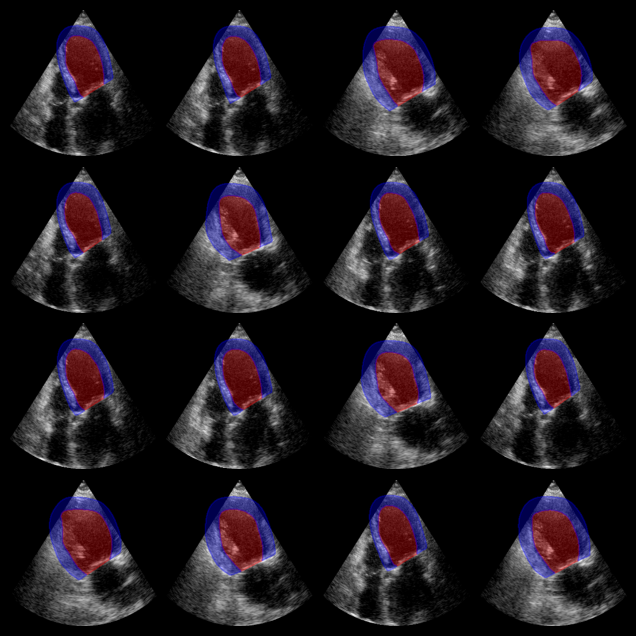
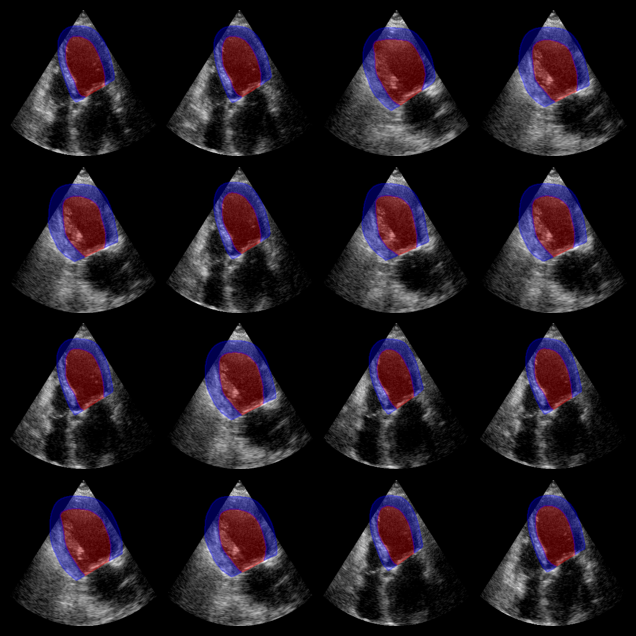
JOSS review @user (#283)

Pull request: JOSS review @user
This PR addresses the JOSS review comments and feedback by @user. See a summary of the review here: https://github.com/openjournals/joss-reviews/issues/9881#issuecomment-3800450309

And the related issues:
- #278 
- #279

Please find an updated version of the docs right here: https://zea--283.org.readthedocs.build/en/283/

<!-- This is an auto-generated comment: release notes by coderabbit.ai -->
## Summary by CodeRabbit

* **Documentation**
  * Notebooks: added Keras import, convert pipeline outputs to NumPy, clarified example imports, reordered/updated model examples and backend support notes.
  * API docs: clarified EchoNet backend requirements and error messaging; added internal Docker anchor to installation docs.
* **Improvements**
  * Added public-facing type annotations for clearer IDE hints.
* **Tests**
  * Added a regression test covering cache-disabled data loading.
<!-- end of auto-generated comment: release notes by coderabbit.ai -->

diff --git a/tests/data/test_dataloader.py b/tests/data/test_dataloader.py
@@ -1,6 +1,7 @@
 """Test H5 dataloader functions"""
 
 import hashlib
+import importlib
 import pickle
 
 import h5py
@@ -596,6 +597,49 @@ def test_dataset_property(dummy_hdf5):
         validate=False,
     )
     assert loader.dataset is not None
+
+
+def test_h5_data_source_with_disabled_cache(multi_shape_dataset, monkeypatch):
+    """H5DataSource must survive multiprocessing.Pool when caching is disabled.
+
+    Regression test for a bug where tempfile.TemporaryDirectory was used as the
+    ZEA_CACHE_DIR. On Linux (fork-based multiprocessing), forked Pool workers
+    inherit the TemporaryDirectory object and its weakref.finalize cleanup
+    callback. If the finalizer fires in any worker, it deletes the shared temp
+    dir from under the parent process, causing a FileNotFoundError.
+
+    The fix replaces TemporaryDirectory with tempfile.mkdtemp so there is no
+    weakref.finalize for forked children to inherit.
+    """
+
+    import zea.data.dataloader as _dataloader_mod
+    import zea.data.datasets as _datasets_mod
+    import zea.internal.cache as _cache_mod
+
+    # Set the env var *before* reloading so the import-time _disable_cache()
+    # call in zea.internal.cache exercises the mkdtemp path (not TemporaryDirectory).
+    # monkeypatch auto-restores the env var after the test.
+    monkeypatch.setenv("ZEA_DISABLE_CACHE", "1")
+    importlib.reload(_cache_mod)
+    importlib.reload(_datasets_mod)
+    importlib.reload(_dataloader_mod)
+
+    try:
+        source = _dataloader_mod.H5DataSource(
+            file_paths=multi_shape_dataset,
+            key="data",
+            n_frames=1,
+            validate=False,
+        )
+        assert len(source) > 0
+    finally:
+        # Restore modules to cache-enabled state for subsequent tests.
+        # Remove the env var first so the reload picks up the enabled path;
+        # monkeypatch's own teardown will then be a harmless no-op.
+        monkeypatch.delenv("ZEA_DISABLE_CACHE", raising=False)
+        importlib.reload(_cache_mod)
+        importlib.reload(_datasets_mod)
+        importlib.reload(_dataloader_mod)
 
 
 def test_dataloader_repr(dummy_hdf5):

diff --git a/zea/models/echonet.py b/zea/models/echonet.py
@@ -20,6 +20,14 @@ To try this model, simply load one of the available presets:
     A tutorial notebook where this model is used:
     :doc:`../notebooks/models/left_ventricle_segmentation_example`.
 
+.. note::
+    This model is only currently supported with the TensorFlow or JAX :ref:`backend-installation`.
+    When using TensorFlow as backend, the model will work out of the box. When using JAX as backend,
+    the model is built using TensorFlow and then converted to JAX. This requires both
+    TensorFlow and JAX to be installed, which can be tricky regarding compatible CUDA versions.
+    One option is to run in our :ref:`docker-information` container, which has been tested
+    to work with both backends.
+
 """
 
 from pathlib import Path
@@ -59,11 +67,15 @@ class EchoNetDynamic(BaseModel):
     def __init__(self, **kwargs):
         if backend.backend() not in ["tensorflow", "jax"]:
             raise NotImplementedError(
-                "EchoNetDynamic is only currently supported with the TensorFlow or Jax backend."
+                "EchoNetDynamic is only currently supported with the TensorFlow or JAX backend."
             )
         assert tf is not None, (
             "TensorFlow is not installed. Please install TensorFlow to use EchoNetDynamic. This is "
-            "required even if you are using the Jax backend, the model is built using TensorFlow."
+            "required even if you are using the JAX backend, the model is built using TensorFlow. "
+            "Installing JAX and TensorFlow together is tricky, regarding compatible CUDA versions. "
+            "One option is to run in our Docker container, which has been tested to work with "
+            "both backends. See https://zea.readthedocs.io/en/latest/installation.html#docker "
+            "for more details."
         )
 
         super().__init__(**kwargs)

diff --git a/zea/internal/cache.py b/zea/internal/cache.py
@@ -23,6 +23,7 @@ import ast
 import atexit
 import inspect
 import os
+import shutil
 import tempfile
 import textwrap
 from pathlib import Path
@@ -39,9 +40,9 @@ _DEFAULT_ZEA_CACHE_DIR = Path.home() / ".cache" / "zea"
 def _disable_cache():
     """Disable caching by creating a temporary directory and setting the environment variable."""
     os.environ["ZEA_DISABLE_CACHE"] = "1"
-    _tmp_dir = tempfile.TemporaryDirectory(prefix="zea_cache_")
-    atexit.register(lambda: _tmp_dir.cleanup())
-    return Path(_tmp_dir.name)
+    _tmp_dir_path = tempfile.mkdtemp(prefix="zea_cache_")
+    atexit.register(lambda: shutil.rmtree(_tmp_dir_path, ignore_errors=True))
+    return Path(_tmp_dir_path)
 
 
 def is_cache_disabled():

diff --git a/zea/ops/pipeline.py b/zea/ops/pipeline.py
@@ -1,5 +1,5 @@
 import json
-from typing import Dict, List, Union
+from typing import Any, Dict, List, Union
 
 import keras
 import numpy as np
@@ -296,7 +296,7 @@ class Pipeline:
         self.timer = FunctionTimer()
         return [self.timer(op, name=op.__class__.__name__) for op in self._pipeline_layers]
 
-    def call(self, **inputs):
+    def call(self, **inputs) -> Dict[str, Any]:
         """Process input data through the pipeline."""
         for operation in self._callable_layers:
             try:
@@ -318,7 +318,7 @@ class Pipeline:
             inputs = outputs
         return outputs
 
-    def __call__(self, return_numpy=False, **inputs):
+    def __call__(self, return_numpy=False, **inputs) -> Dict[str, Any]:
         """Process input data through the pipeline."""
 
         if any(key in inputs for key in ["probe", "scan", "config"]) or any(

diff --git a/zea/data/dataloader.py b/zea/data/dataloader.py
@@ -3,9 +3,9 @@
 Example:
     .. code-block:: python
 
-        from zea import Dataloader
+        import zea
 
-        loader = Dataloader(
+        loader = zea.Dataloader(
             file_paths="/path/to/dataset",
             key="data/image",
             batch_size=16,

diff --git a/zea/data/file.py b/zea/data/file.py
@@ -173,7 +173,7 @@ class File(h5py.File):
         self,
         data_type,
         indices: Tuple[Union[list, slice, int], ...] | List[int] | int | None = None,
-    ):
+    ) -> np.ndarray:
         """Load data from the file.
 
         .. include:: ../common/file_indexing.rst
@@ -538,7 +538,7 @@ def load_file(
     data_type="raw_data",
     indices: Tuple[Union[list, slice, int], ...] | List[int] | int | None = None,
     scan_kwargs: dict = None,
-):
+) -> Tuple[np.ndarray, Scan, Probe]:
     """Loads a zea data files (h5py file).
 
     Returns the data together with a scan object containing the parameters

diff --git a/docs/source/installation.rst b/docs/source/installation.rst
@@ -34,6 +34,8 @@ Backend
    :end-before: .. backend-installation-end
 
 
+.. _docker-information:
+
 Docker
 -------
 